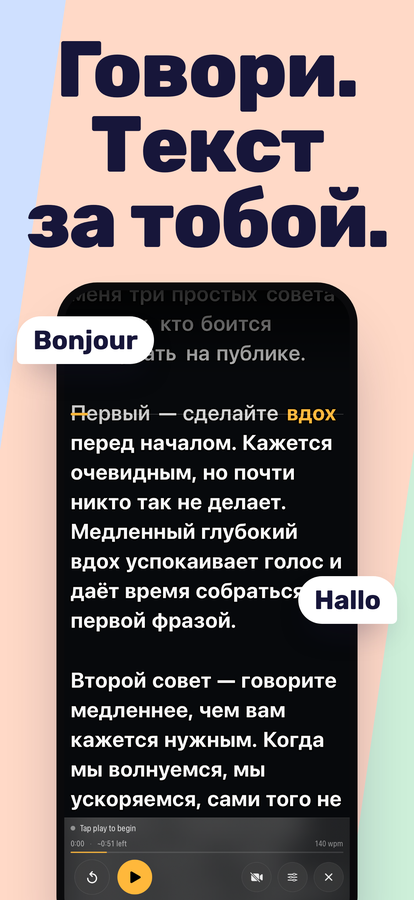
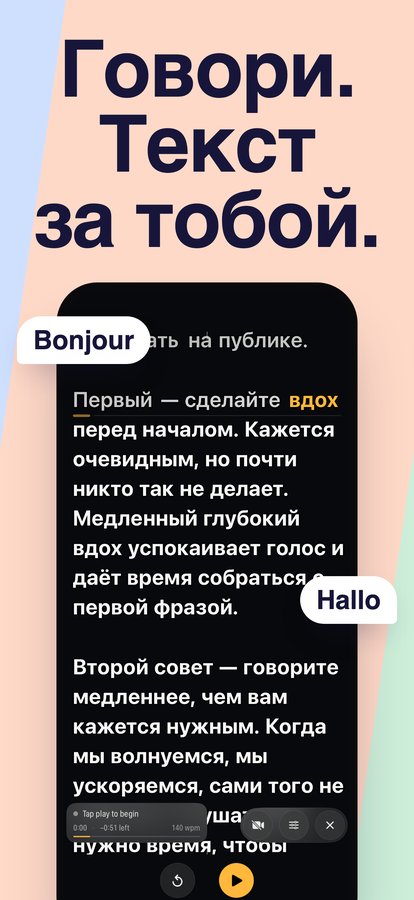
Docs: drop the Zoom control from the README; refresh es-MX, ru, uk and ar site images for 1.7.0 (#32, #33)
The README promised a Zoom control the app does not have (removed on purpose;
the camera is pinned to its widest field of view). The four site languages
still showed the pre-1.7.0 screen; they now use the 1.7.0 store renders at the
same 414x900 size. Docs and images only, no app change.

diff --git a/README.md b/README.md
@@ -16,7 +16,7 @@ Built with SwiftUI, Apple's Speech framework and AVFoundation. No subscription a
 - **Explains itself.** A "?" on the setup screen opens a plain-language guide to every option — including Mirror, which flips the script top-to-bottom for teleprompter rigs that bounce the screen off a sheet of glass in front of the lens. The controls never move and stay right-way-up, since you look at them directly rather than through the glass.
 - **Times your read.** Word count and estimated run time as you write — pick a relaxed, natural or brisk pace right in the estimate — then elapsed time, time left and a thin progress line while you speak. The estimate starts from your target pace and switches to your *measured* pace once there's enough of the take to judge from.
 - **Counts you in.** An optional 3, 5 or 10 second pre-roll before listening starts, shown as a film leader — a sweeping ring and the count — so you can settle and find the lens. If a recording is queued behind it, the indicator reads *armed* until the take actually starts. Tap anywhere to cancel it.
-- **Adapts to the device.** Zoom, HDR, stabilisation and low-light boost appear as controls only if the connected iPhone's camera actually supports them. Recording quality is a Camera.app-style pair of toggles — HD or 4K, and the frame rates that size offers (24/25/30/60, as far as the camera supports) — right on the prompter.
+- **Adapts to the device.** HDR, stabilisation and low-light boost appear as controls only if the connected iPhone's camera actually supports them. Recording quality is a Camera.app-style pair of toggles — HD or 4K, and the frame rates that size offers (24/25/30/60, as far as the camera supports) — right on the prompter.
 - **Stays out of your script's way.** On a phone the controls sit in the black around the picture, never over your words, and they stay on screen and tappable for the whole take, so you never have to guess where they went. Where you are, how long is left and the recording indicator never hide.
 - **Set to your eyes.** Text size, side margins (up to a narrow column in the middle, under the lens), left/center/right/justified alignment and the reading line all adjust from the prompter, where you can see the script change as you drag.
 - **Reads like an instrument, not a form.** The script is set in the face iOS draws for legibility at a glance; everything around it — labels, timings, readouts — is condensed and quiet so it stays out of the way. The whole app sits on a near-black ground, so the amber marks read as light rather than decoration.
